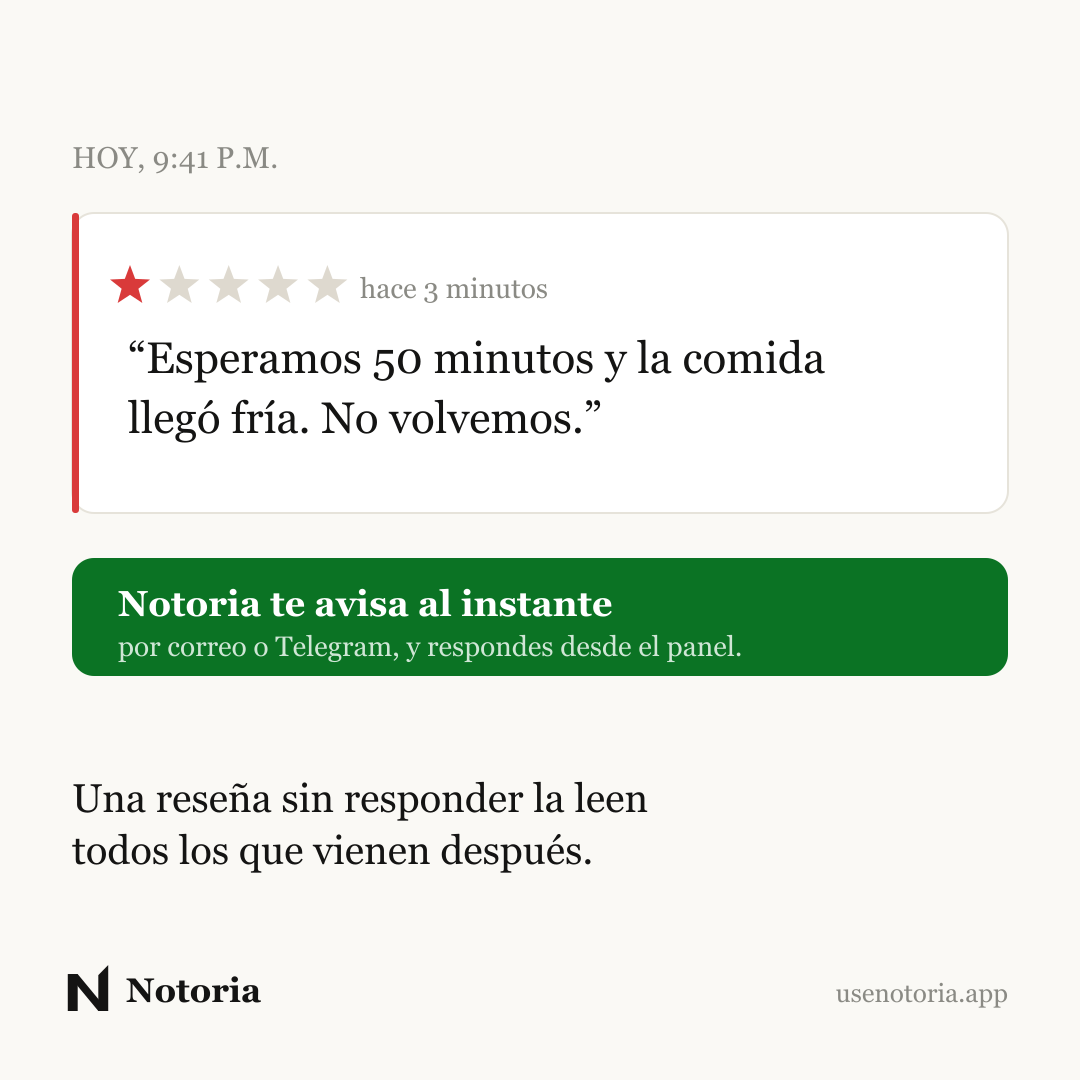
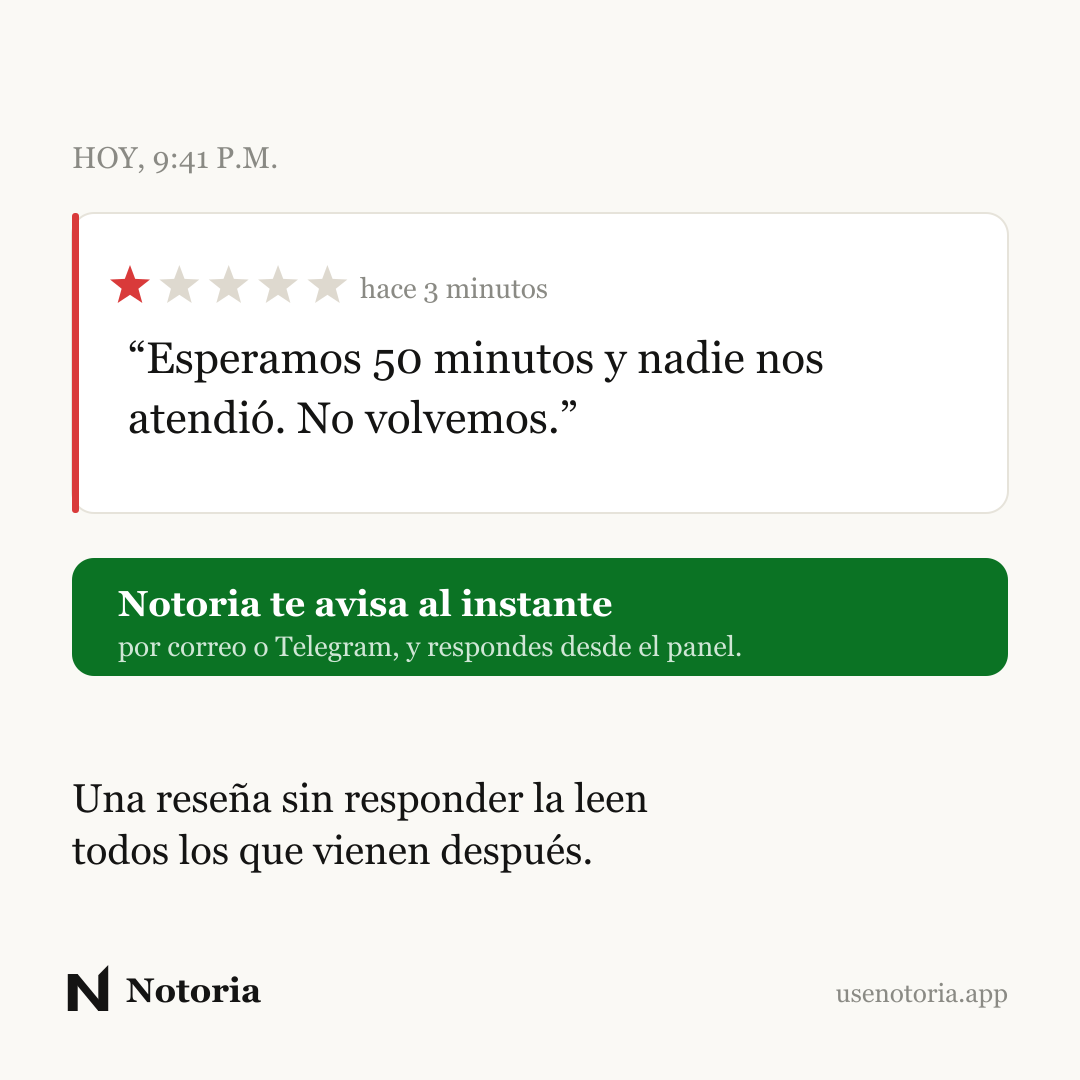
Abrir las piezas de redes a cualquier negocio, no solo restaurantes
Decision del usuario, y ademas es exacta: el producto ya soporta 12 tipos de
negocio (ver TIPOS_NEGOCIO en negocio.routes.js), asi que "para cualquier
negocio" describe lo que hace, no lo exagera.

Se cambia tambien la resena de ejemplo. Decia "la comida llego fria", que
solo sirve para un restaurante y contradecia el resto de las piezas. Ahora
es "nadie nos atendio", que vale para una tienda, una clinica o un taller.

Ojo con la coherencia pendiente: el landing y los textos del App Review
siguen diciendo restaurantes y hoteles. Eso no es falso —es el foco
comercial— pero si las piezas dicen otra cosa conviene decidir cual manda.

Changed region(s): [[0.1222, 0.3667, 0.55, 0.4278], [0.5806, 0.3056, 0.7639, 0.3667]]

diff --git a/marca/generar-social.js b/marca/generar-social.js
@@ -80,13 +80,16 @@ const piezaPromesa = `
   <text x="72" y="562" font-family="Georgia, 'Times New Roman', serif" font-size="86" font-weight="bold" fill="${CREMA}">antes que tu</text>
   <text x="72" y="662" font-family="Georgia, 'Times New Roman', serif" font-size="86" font-weight="bold" fill="${CREMA}">próximo cliente.</text>
   <text x="72" y="768" font-family="Georgia, 'Times New Roman', serif" font-size="34" fill="#9a9a95">Reseñas de Google y comentarios de Instagram,</text>
-  <text x="72" y="816" font-family="Georgia, 'Times New Roman', serif" font-size="34" fill="#9a9a95">en una sola bandeja. Para restaurantes y hoteles.</text>
+  <text x="72" y="816" font-family="Georgia, 'Times New Roman', serif" font-size="34" fill="#9a9a95">en una sola bandeja. Para cualquier negocio.</text>
   ${pie(CREMA, '#6f6f6b')}
 </svg>`;
 
 // ── Pieza 2: la reseña que duele ──────────────────────────
-// Enseña el problema en vez de contarlo. La reseña es genérica a propósito: no
-// se usa el nombre de ningún negocio real.
+// Enseña el problema en vez de contarlo. La reseña es genérica por dos motivos:
+// no se nombra ningún negocio real —inventarle una queja a un local existente
+// sería difamarlo— y la queja no es de un rubro concreto. Decía "la comida llegó
+// fría", que solo servía para un restaurante y contradecía el "para cualquier
+// negocio" del resto de las piezas.
 const piezaResena = `
 <svg xmlns="http://www.w3.org/2000/svg" width="${LADO}" height="${LADO}" viewBox="0 0 ${LADO} ${LADO}">
   <rect width="${LADO}" height="${LADO}" fill="${CREMA}"/>
@@ -96,8 +99,8 @@ const piezaResena = `
   <rect x="72" y="213" width="7" height="300" rx="3" fill="#d93a3a"/>
   ${estrellas(130, 286, 1, 21, '#d93a3a', '#ded9cf')}
   <text x="360" y="298" font-family="Georgia, 'Times New Roman', serif" font-size="28" fill="#8a8a84">hace 3 minutos</text>
-  <text x="128" y="373" font-family="Georgia, 'Times New Roman', serif" font-size="44" fill="#141413">“Esperamos 50 minutos y la comida</text>
-  <text x="128" y="433" font-family="Georgia, 'Times New Roman', serif" font-size="44" fill="#141413">llegó fría. No volvemos.”</text>
+  <text x="128" y="373" font-family="Georgia, 'Times New Roman', serif" font-size="44" fill="#141413">“Esperamos 50 minutos y nadie nos</text>
+  <text x="128" y="433" font-family="Georgia, 'Times New Roman', serif" font-size="44" fill="#141413">atendió. No volvemos.”</text>
 
   <rect x="72" y="558" width="936" height="118" rx="22" fill="${VERDE}"/>
   <text x="118" y="616" font-family="Georgia, 'Times New Roman', serif" font-size="36" font-weight="bold" fill="#ffffff">Notoria te avisa al instante</text>
@@ -128,7 +131,7 @@ const piezaVigila = `
       <circle cx="126" cy="${y - 4}" r="13" fill="${VERDE_CLARO}"/>
       <text x="172" y="${y + 8}" font-family="Georgia, 'Times New Roman', serif" font-size="38" fill="${CREMA}">${f}</text>`;
   }).join('')}
-  <text x="72" y="880" font-family="Georgia, 'Times New Roman', serif" font-size="32" fill="#9a9a95">Restaurantes y hoteles del Perú · Plan gratuito disponible</text>
+  <text x="72" y="880" font-family="Georgia, 'Times New Roman', serif" font-size="32" fill="#9a9a95">Para cualquier negocio en el Perú · Plan gratuito disponible</text>
   ${pie(CREMA, '#6f6f6b')}
 </svg>`;
 
